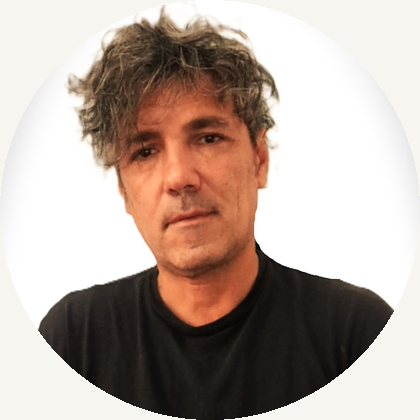
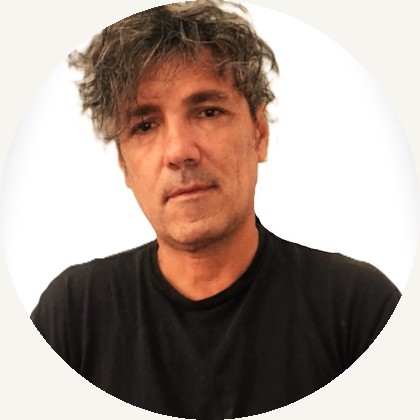
Ajusta encuadre de foto de perfil

Changed region(s): [[0.0619, 0.0, 0.9595, 0.8048]]

diff --git a/public/styles.css b/public/styles.css
@@ -388,7 +388,7 @@ h3 {
   height: 190px;
   margin: 0 auto;
   object-fit: cover;
-  object-position: center 18%;
+  object-position: center 26%;
   border-radius: 50%;
   border: 6px solid rgba(255, 255, 255, 0.82);
   box-shadow: 0 12px 28px rgba(22, 32, 29, 0.16);
